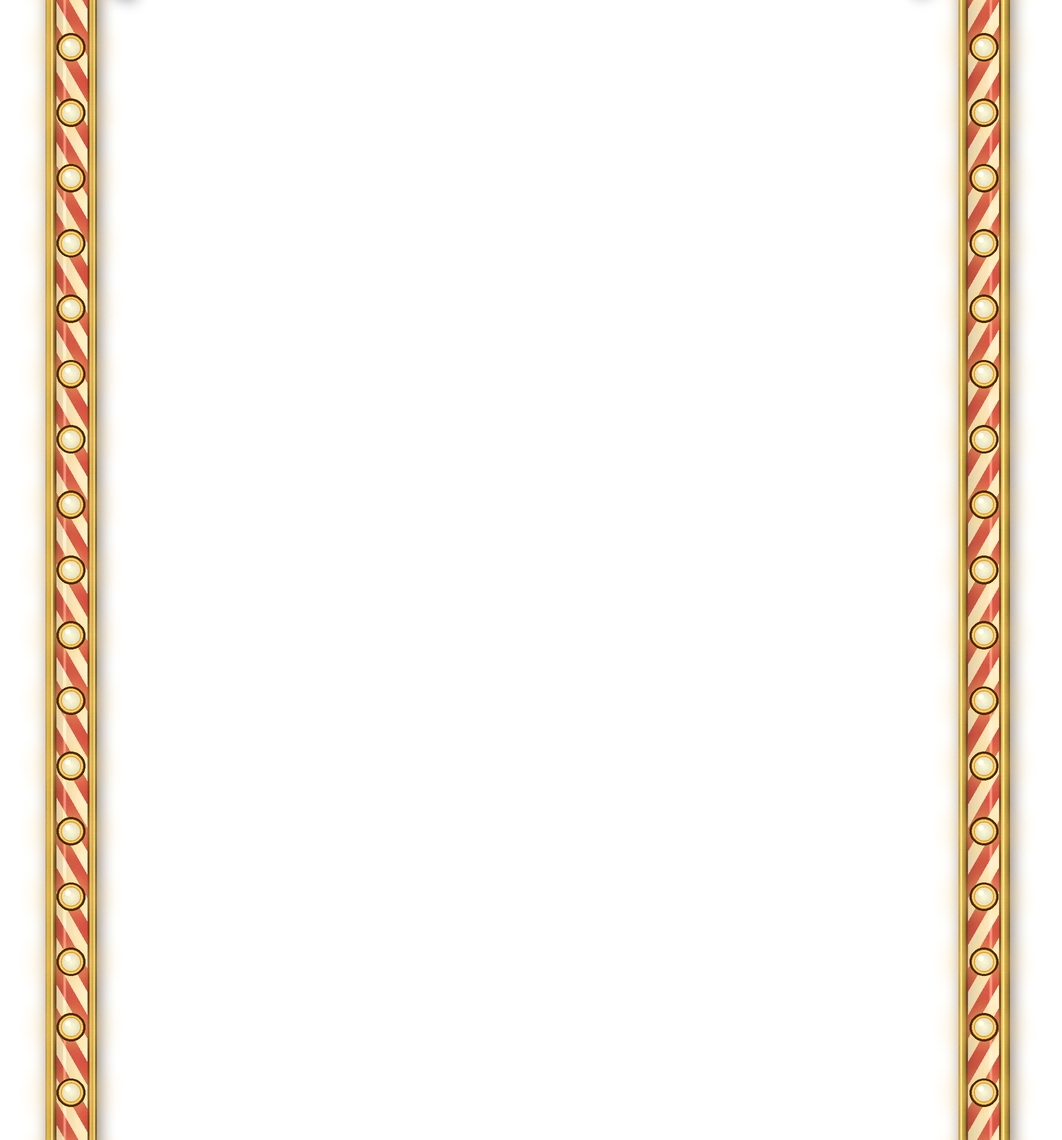
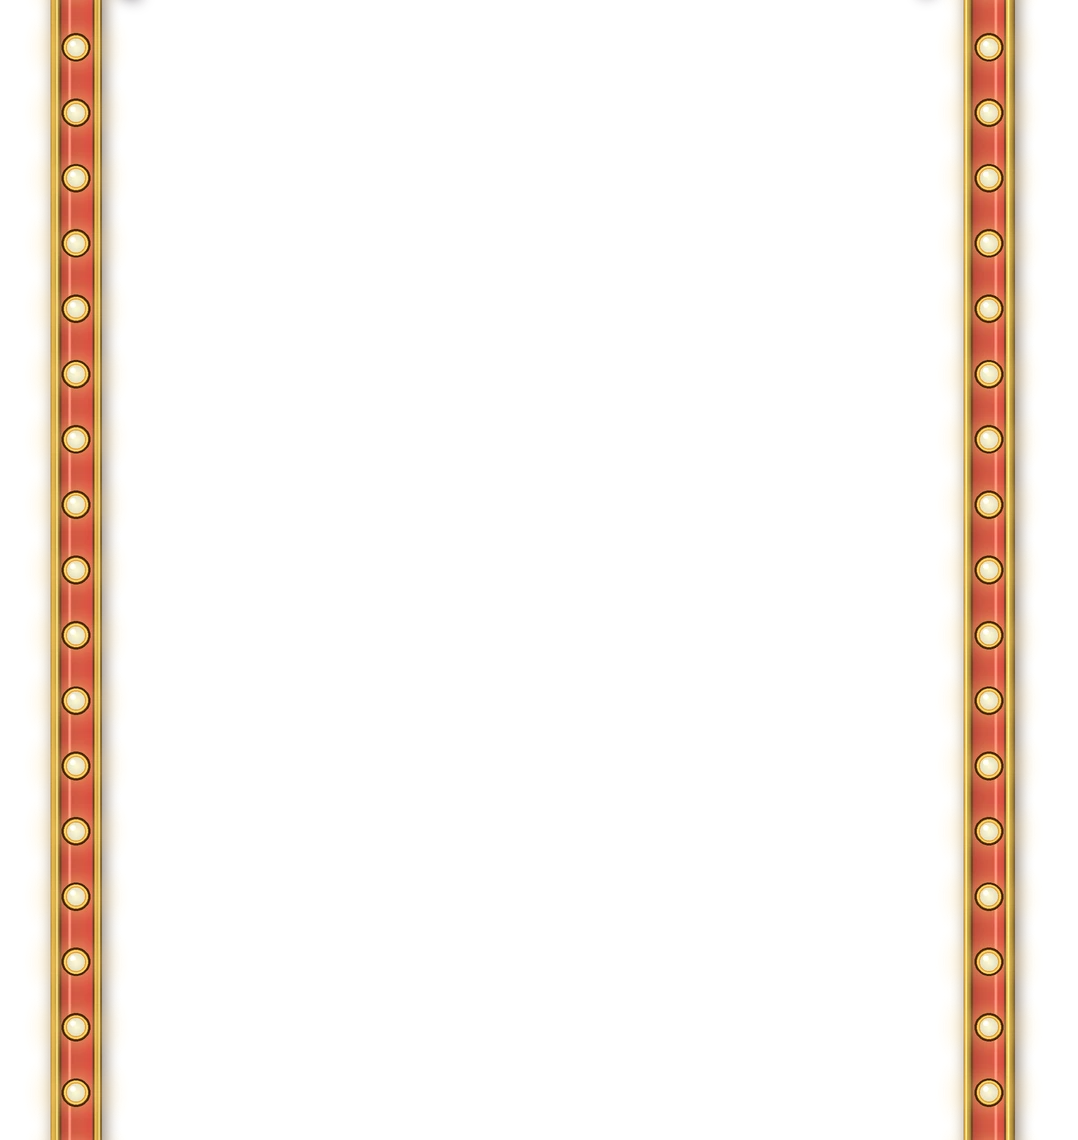
Fairground border: lights-only red rail, four different corner prizes, remove popcorn and candy floss
Claude-Session: https://claude.ai/code/session_01EnXvJ6P6HcGRxjBSnYPdAU

Changed region(s): [[0.8701, 0.0, 0.9633, 1.0], [0.0311, 0.0, 0.0932, 1.0]]

diff --git a/www/assets/v22.js b/www/assets/v22.js
@@ -70,7 +70,7 @@
 
   // ── 2. FINALS: a full league bar unlocks that league's Final; winning it lifts the cup and opens the next league
   const kfmt = n => n >= 1000 ? (Math.round(n / 100) / 10).toString().replace(/\.0$/, '') + 'K' : fmt(n);
-  const FRAMES = new Set([1, 2, 3, 4]), BADGES = new Set([...Array(27).keys()].map(i => i + 1)), FDIM = { 5: [0.25, 0.2214], 7: [0.3271, 0.24], 8: [0.4686, 0.3886], 2: [0.3765, 0.3765], 3: [0.3196, 0.2966], 4: [0.3192, 0.2947], 1: [0.2018, 0.2055], 6: [0.289, 0.2475], 16: [0.2241, 0.2241], 18: [0.2, 0.1834], 21: [0.228, 0.2052] };
+  const FRAMES = new Set([1, 2, 3, 4]), BADGES = new Set([...Array(27).keys()].map(i => i + 1)), FDIM = { 5: [0.25, 0.2214], 7: [0.3271, 0.24], 8: [0.4686, 0.3886], 2: [0.3765, 0.3765], 3: [0.3196, 0.2966], 4: [0.3145, 0.2904], 1: [0.2018, 0.2055], 6: [0.289, 0.2475], 16: [0.2241, 0.2241], 18: [0.2, 0.1834], 21: [0.228, 0.2052] };
   function F() { const f = sec('finals'); if (!f.won) { f.won = {}; f.ready = {}; const hi = highestLeagueIdx(); for (let i = 1; i < hi; i++) f.won[i] = 1; save(); } return f; }
   const finalWon = i => !!F().won[i], finalReady = i => !!F().ready[i] && !F().won[i];
   const cupsWon = () => Object.keys(F().won).filter(k => +k >= 1).length;
@@ -401,7 +401,7 @@
   .tcard .lockx.st.open .chn img.padb,.lockx.st.open img.padb{animation:none!important}
   .v2pz2 .g:not(.f){flex:0 0 40%!important}.v2pz2 .g:not(.f) .row{gap:4px;justify-content:space-around}.v2pz2 .g:not(.f) .row span{font-size:11.5px;letter-spacing:-.2px}.v2pz2 .g.f .row{gap:3px}.v2pz2 .g.f .row span{font-size:11.5px;letter-spacing:-.2px}
   .tcard.pt.tf:not([data-lg="6"]):not([data-lg="16"])::before{border-radius:28px}.tcard.pt.tf::after{z-index:40!important;pointer-events:none;--cw:calc(100cqw + 2 * var(--pad,22px));--fw:calc(var(--cw) * (1 + 2 * var(--fside,0)));left:calc(var(--cw) * var(--fside,0) * -1);right:calc(var(--cw) * var(--fside,0) * -1)}
-  .tcard.pt.tf[data-lg="1"]{--hl:0.1005;--hr:0.894;--ht:0.0968;--hb:0.1005}.tcard.pt.tf[data-lg="2"]{--hl:0.1883;--hr:0.8117;--ht:0.1883;--hb:0.1883}.tcard.pt.tf[data-lg="3"]{--hl:0.1019;--hr:0.8926;--ht:0.1763;--hb:0.1534}.tcard.pt.tf[data-lg="4"]{--hl:0.0913;--hr:0.9021;--ht:0.1723;--hb:0.1478}.tcard.pt.tf[data-lg="5"]{--hl:0.0943;--hr:0.9057;--ht:0.1657;--hb:0.1314}.tcard.pt.tf[data-lg="6"]{--hl:0.088;--hr:0.912;--ht:0.2442;--hb:0.1346}.tcard.pt.tf[data-lg="7"]{--hl:0.1543;--hr:0.8443;--ht:0.2;--hb:0.1571}.tcard.pt.tf[data-lg="8"]{--hl:0.1557;--hr:0.8457;--ht:0.2514;--hb:0.1729}.tcard.pt.tf[data-lg="16"]{--hl:0.0833;--hr:0.9195;--ht:0.1609;--hb:0.1106}.tcard.pt.tf[data-lg="18"]{--hl:0.0539;--hr:0.9461;--ht:0.0705;--hb:0.0539}.tcard.pt.tf[data-lg="21"]{--hl:0.0539;--hr:0.9461;--ht:0.0984;--hb:0.0756}.tcard.pt.tf::after{--tw:calc(100cqw + 2 * var(--pad,22px));--fw:calc(var(--tw) / (var(--hr) - var(--hl)));left:calc(0px - var(--fw) * var(--hl))!important;right:auto!important;width:var(--fw)!important;top:calc(0px - var(--fw) * var(--ht))!important;bottom:calc(0px - var(--fw) * var(--hb))!important;z-index:40!important;pointer-events:none}
+  .tcard.pt.tf[data-lg="1"]{--hl:0.1005;--hr:0.894;--ht:0.0968;--hb:0.1005}.tcard.pt.tf[data-lg="2"]{--hl:0.1883;--hr:0.8117;--ht:0.1883;--hb:0.1883}.tcard.pt.tf[data-lg="3"]{--hl:0.1019;--hr:0.8926;--ht:0.1763;--hb:0.1534}.tcard.pt.tf[data-lg="4"]{--hl:0.0946;--hr:0.8933;--ht:0.1698;--hb:0.1456}.tcard.pt.tf[data-lg="5"]{--hl:0.0943;--hr:0.9057;--ht:0.1657;--hb:0.1314}.tcard.pt.tf[data-lg="6"]{--hl:0.088;--hr:0.912;--ht:0.2442;--hb:0.1346}.tcard.pt.tf[data-lg="7"]{--hl:0.1543;--hr:0.8443;--ht:0.2;--hb:0.1571}.tcard.pt.tf[data-lg="8"]{--hl:0.1557;--hr:0.8457;--ht:0.2514;--hb:0.1729}.tcard.pt.tf[data-lg="16"]{--hl:0.0833;--hr:0.9195;--ht:0.1609;--hb:0.1106}.tcard.pt.tf[data-lg="18"]{--hl:0.0539;--hr:0.9461;--ht:0.0705;--hb:0.0539}.tcard.pt.tf[data-lg="21"]{--hl:0.0539;--hr:0.9461;--ht:0.0984;--hb:0.0756}.tcard.pt.tf::after{--tw:calc(100cqw + 2 * var(--pad,22px));--fw:calc(var(--tw) / (var(--hr) - var(--hl)));left:calc(0px - var(--fw) * var(--hl))!important;right:auto!important;width:var(--fw)!important;top:calc(0px - var(--fw) * var(--ht))!important;bottom:calc(0px - var(--fw) * var(--hb))!important;z-index:40!important;pointer-events:none}
   #v2deck .v2rail{gap:90px!important}
   .tcard.pt:not(.tf)::after{border:0!important;border-image:none!important}
   .tcard.pt.tf::before{inset:0!important;border-radius:4px!important}
